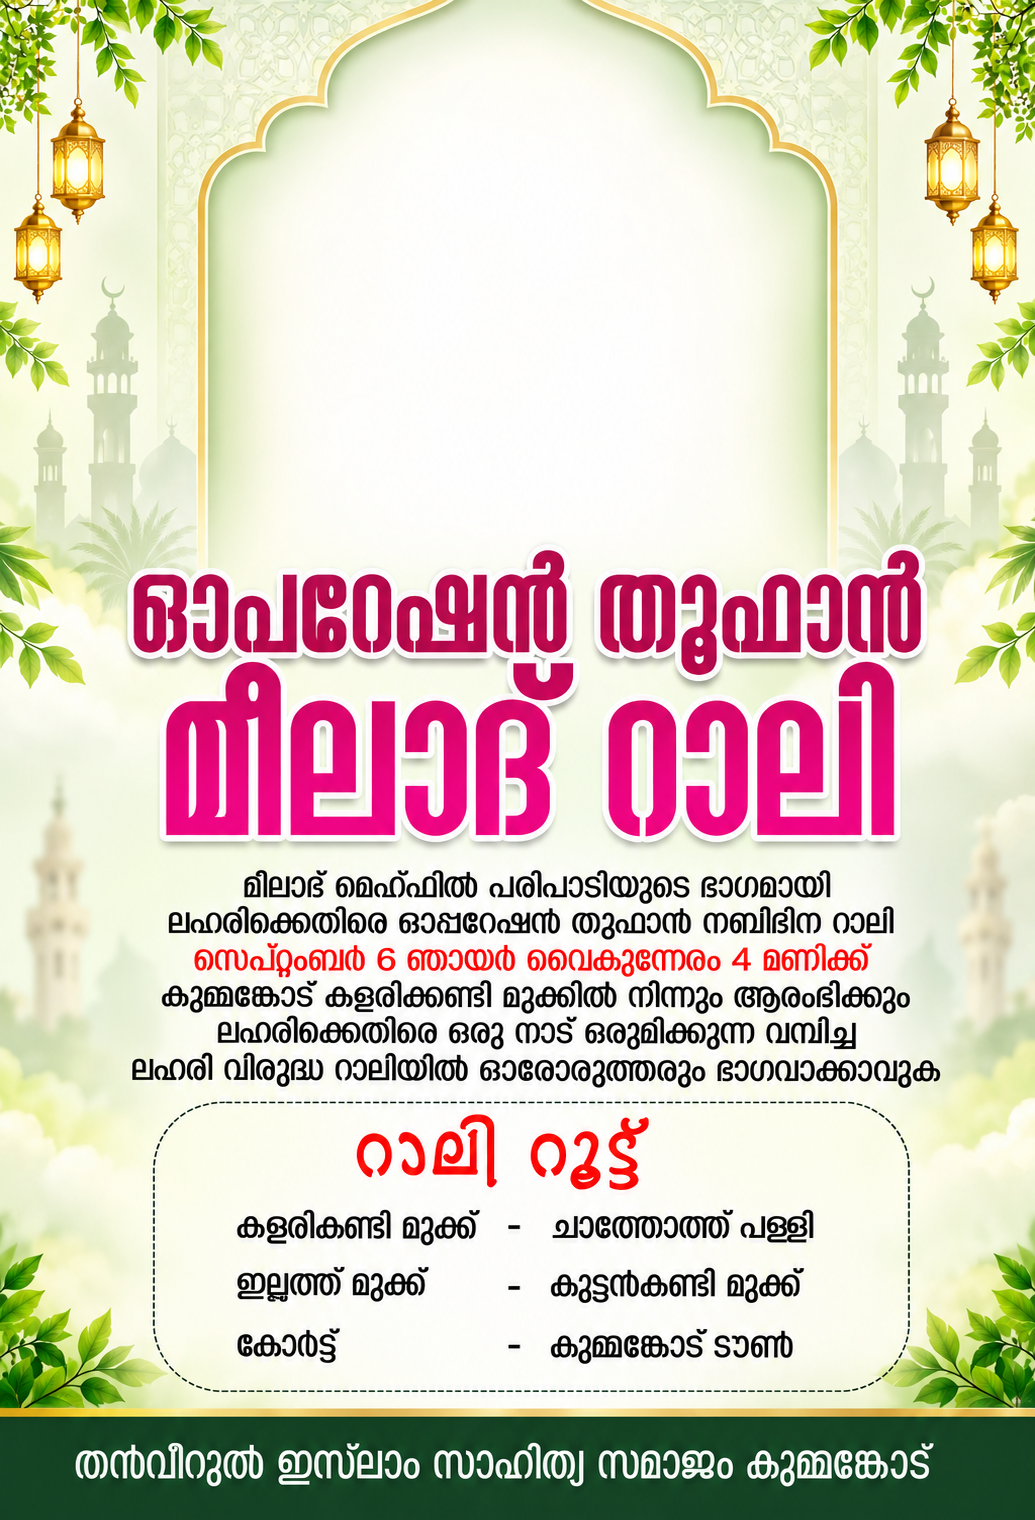
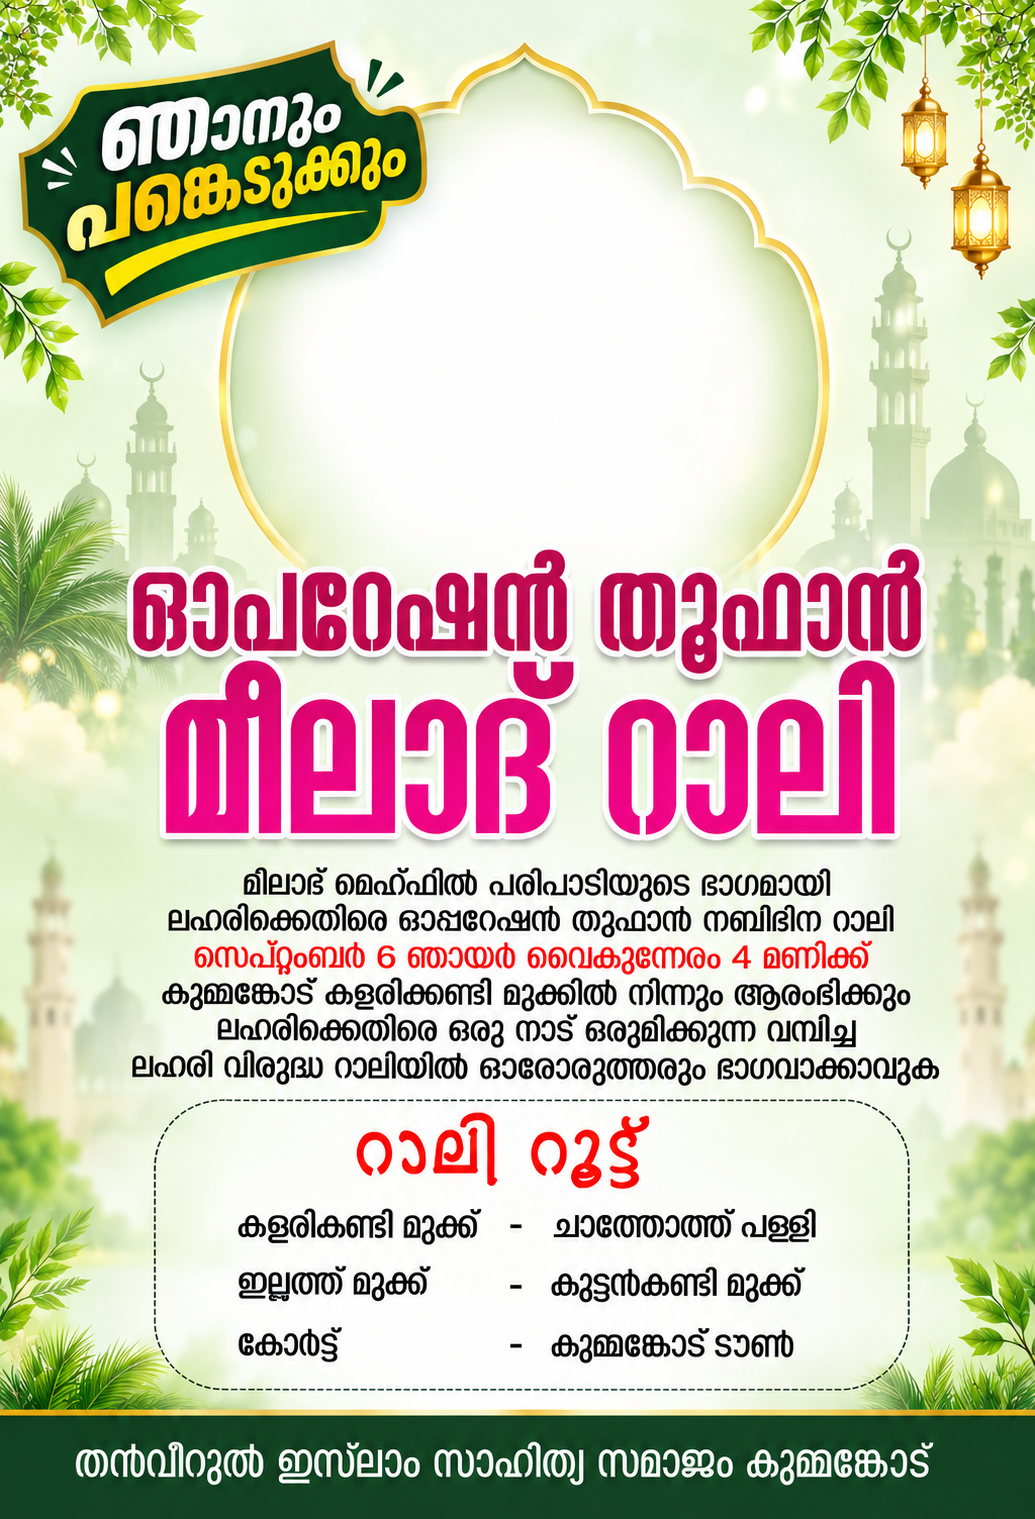
changes

diff --git a/index.html b/index.html
@@ -104,7 +104,7 @@
     frameSrc: 'banner.png', // Saved image name in local folder
     photoBox: {
       centerX: 400, // Top circle frame center X
-      centerY: 215, // Top circle frame center Y
+      centerY: 295, // Top circle frame center Y
       radius: 175   // Top circle frame radius
     }
   };
